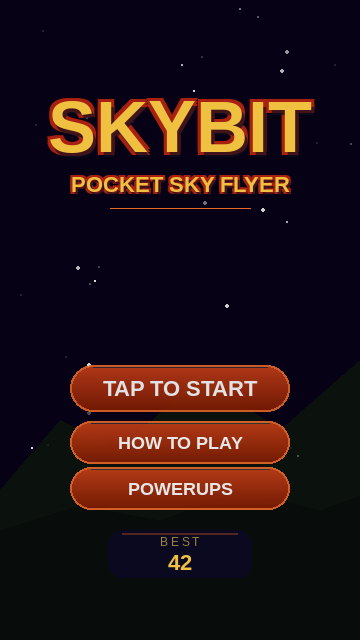
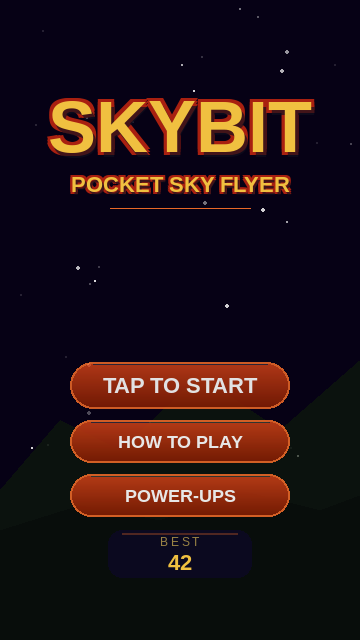
menu preview: even inter-pill spacing + rename POWERUPS → POWER-UPS
Previously the gap between TAP TO START / HOW TO PLAY (12 px) was
visibly larger than the gap between HOW TO PLAY / POWER-UPS (~6 px)
because each pill's height was hardcoded into a y-coordinate that did
not match the rendered font metrics.

Now compute the actual pill heights from `_font(size).render(...)` and
cascade centres downward with one shared GAP (12 px) between every
pair, anchoring the block 14 px above the BEST score panel. Same trick
will be reused when this is wired into hud.py in Phase B.

Also: relabel the third pill POWERUPS → POWER-UPS to match the
hyphenation used elsewhere in the game copy.

https://claude.ai/code/session_01KmuPqgJoteHcdaipvPbmUL

Changed region(s): [[0.1833, 0.5625, 0.7944, 0.8125], [0.7944, 0.75, 0.825, 0.7812], [0.7944, 0.5938, 0.825, 0.625]]

diff --git a/tools/render_menu_preview.py b/tools/render_menu_preview.py
@@ -78,12 +78,29 @@ def render_menu_mockup(t: float = 0.0, best: int = 42) -> pygame.Surface:
 
     # ── Three stacked pills (the redesign) ────────────────────────────────
     # Shared min_width = 220 keeps all three buttons the same visual width.
+    # Centres are computed from actual pill heights + a fixed inter-pill gap
+    # so the white space between buttons is even regardless of font metrics.
+    def _pill_h(text: str, size: int) -> int:
+        return _font(size, True).render(text, True, (255, 255, 255)).get_height() + 22
+
+    GAP = 12
+    h_start = _pill_h("TAP TO START", 22)
+    h_howto = _pill_h("HOW TO PLAY", 18)
+    h_power = _pill_h("POWER-UPS", 18)
+
+    # Anchor the block by its bottom edge, leaving a 14 px buffer above the
+    # BEST score panel (which sits at y = H - 110). Centres cascade upward
+    # with one shared GAP between every pair.
+    y_power = (H - 110) - 14 - h_power // 2
+    y_howto = y_power - h_power // 2 - GAP - h_howto // 2
+    y_start = y_howto - h_howto // 2 - GAP - h_start // 2
+
     btn_alpha = int(225 + math.sin(t * 3.6) * 30)
-    _pill_btn(surf, (W // 2, 388), "TAP TO START",
+    _pill_btn(surf, (W // 2, y_start), "TAP TO START",
               size=22, alpha=btn_alpha, min_width=220)
-    _pill_btn(surf, (W // 2, 442), "HOW TO PLAY",
+    _pill_btn(surf, (W // 2, y_howto), "HOW TO PLAY",
               size=18, alpha=230, min_width=220)
-    _pill_btn(surf, (W // 2, 488), "POWERUPS",
+    _pill_btn(surf, (W // 2, y_power), "POWER-UPS",
               size=18, alpha=230, min_width=220)
 
     # BEST score panel — unchanged from draw_menu (game/hud.py:573-581).
